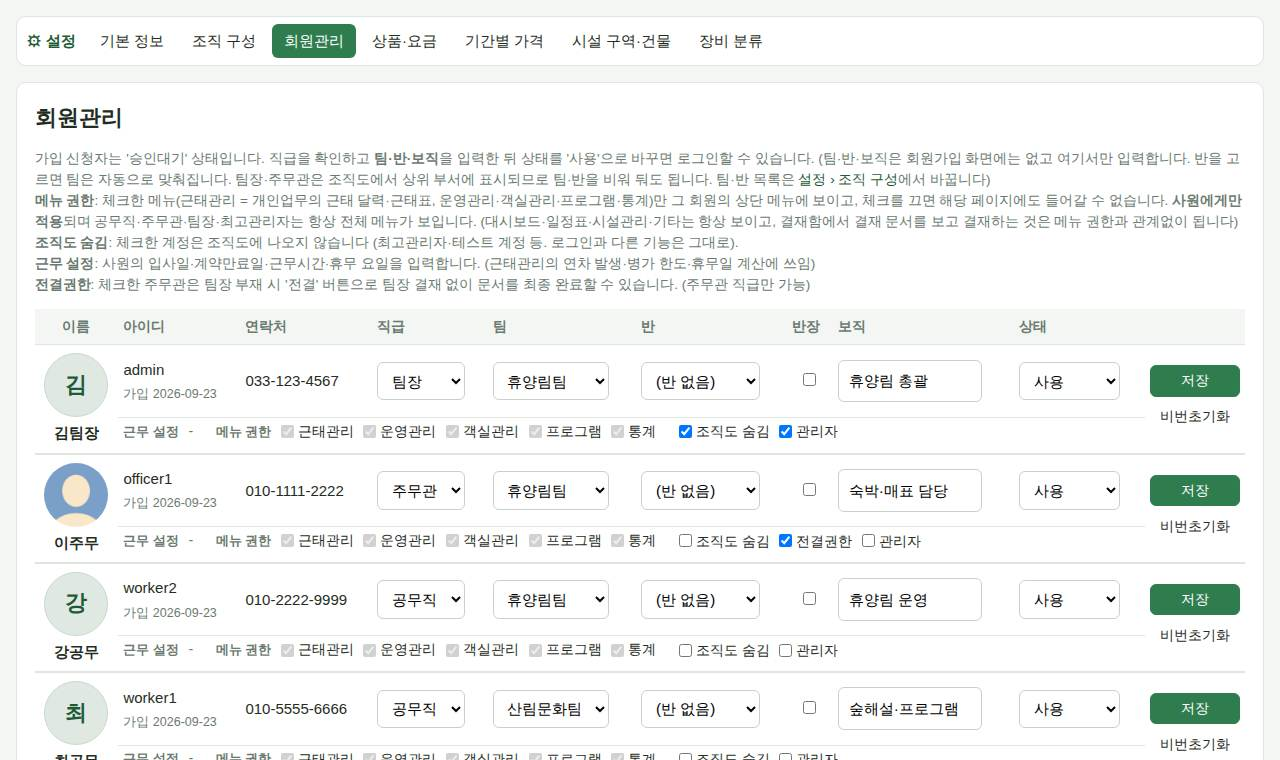
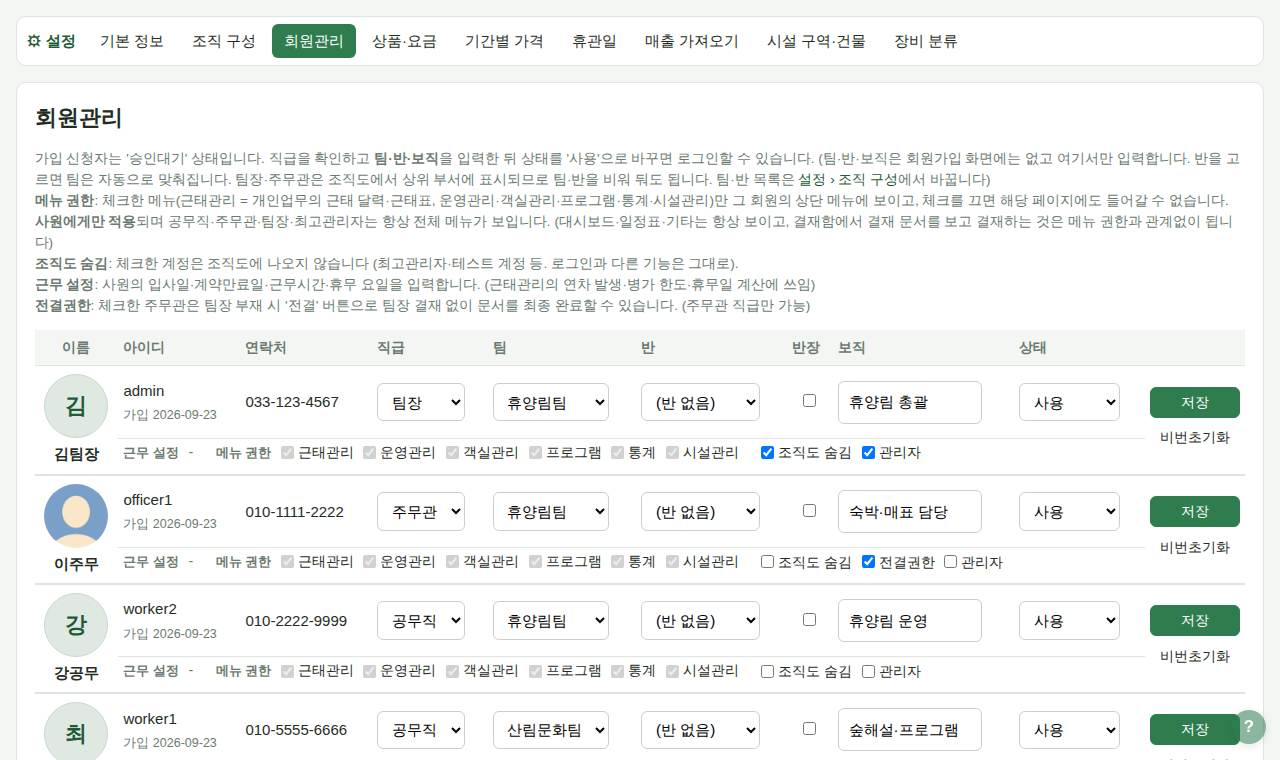
회원관리: 메뉴 권한에 시설관리 추가 (DB v50)
- 시설관리(fac) 끄면 시설점검·시설물·장비·물품구매·대시보드 시설물관리일지 숨김·차단
- 업데이트 때 이미 메뉴 권한을 고른 회원은 시설관리를 켜 둠 (지금처럼 보임)

Claude-Session: https://claude.ai/code/session_01Lr6yxKyasrSL9QLfMX5TX8

diff --git a/admin/users.php b/admin/users.php
@@ -60,9 +60,9 @@ if ($me['is_admin']) settings_nav('users');
     (팀·반·보직은 회원가입 화면에는 없고 여기서만 입력합니다. 반을 고르면 팀은 자동으로 맞춰집니다.
     팀장·주무관은 조직도에서 상위 부서에 표시되므로 팀·반을 비워 둬도 됩니다.
     팀·반 목록은 <?= $me['is_admin'] ? '<a href="' . e(url('settings.php?tab=org')) . '">설정 › 조직 구성</a>' : '최고관리자가 설정 › 조직 구성' ?>에서 바꿉니다)<br>
-    <b>메뉴 권한</b>: 체크한 메뉴(근태관리 = 개인업무의 근태 달력·근태표, 운영관리·객실관리·프로그램·통계)만 그 회원의 상단 메뉴에 보이고, 체크를 끄면 해당 페이지에도 들어갈 수 없습니다.
+    <b>메뉴 권한</b>: 체크한 메뉴(근태관리 = 개인업무의 근태 달력·근태표, 운영관리·객실관리·프로그램·통계·시설관리)만 그 회원의 상단 메뉴에 보이고, 체크를 끄면 해당 페이지에도 들어갈 수 없습니다.
     <b>사원에게만 적용</b>되며 공무직·주무관·팀장·최고관리자는 항상 전체 메뉴가 보입니다.
-    (대시보드·일정표·시설관리·기타는 항상 보이고, 결재함에서 결재 문서를 보고 결재하는 것은 메뉴 권한과 관계없이 됩니다)<br>
+    (대시보드·일정표·기타는 항상 보이고, 결재함에서 결재 문서를 보고 결재하는 것은 메뉴 권한과 관계없이 됩니다)<br>
     <b>조직도 숨김</b>: 체크한 계정은 조직도에 나오지 않습니다 (최고관리자·테스트 계정 등. 로그인과 다른 기능은 그대로).<br>
     <b>근무 설정</b>: 사원의 입사일·계약만료일·근무시간·휴무 요일을 입력합니다. (근태관리의 연차 발생·병가 한도·휴무일 계산에 쓰임)<br>
     <b>전결권한</b>: 체크한 주무관은 팀장 부재 시 '전결' 버튼으로 팀장 결재 없이 문서를 최종 완료할 수 있습니다. (주무관 직급만 가능)</p>

diff --git a/app/migrate.php b/app/migrate.php
@@ -6,7 +6,7 @@ defined('APP_ROOT') || exit;
  * 새 버전 파일을 FTP로 덮어쓰기만 하면, 첫 접속 때 부족한 테이블/컬럼을 만든다.
  * (기존 자료는 그대로 유지)
  */
-const DB_VERSION = 49;
+const DB_VERSION = 50;
 
 function db_version(): int
 {
@@ -417,6 +417,11 @@ function db_migrate(): void
     foreach (['last_sent_at' => "DATETIME NULL COMMENT '마지막 전송 시도'", 'last_code' => "SMALLINT NULL COMMENT '마지막 전송 결과 (알림 서버 HTTP 코드, 0 = 연결 실패)'",
               'last_error' => "VARCHAR(255) NULL COMMENT '마지막 전송 오류 내용'", 'test_at' => "DATETIME NULL COMMENT '알림 테스트 요청'"] as $col => $def) {
         if (!column_exists('push_subs', $col)) $pdo->exec("ALTER TABLE push_subs ADD $col $def");
+    }
+
+    // 50) v49 → v50: 메뉴 권한에 '시설관리'(fac) 추가 — 이미 메뉴 권한을 고른 회원은 지금처럼 시설관리를 계속 보이게 fac 를 붙인다
+    if (db_version() < 50) {
+        $pdo->exec("UPDATE users SET menu_access = IF(menu_access = '', 'fac', CONCAT(menu_access, ',fac')) WHERE menu_access IS NOT NULL AND FIND_IN_SET('fac', menu_access) = 0");
     }
 
     $pdo->prepare("INSERT INTO settings (name, value) VALUES ('db_version', ?) ON DUPLICATE KEY UPDATE value = VALUES(value)")

diff --git a/app/changelog.php b/app/changelog.php
@@ -7,6 +7,10 @@ defined('APP_ROOT') || exit;
  *   ['date' => 'YYYY-MM-DD', 'title' => '한 줄 요약', 'items' => ['자세한 내용', ...], 'menu' => '관련 메뉴(선택)']
  */
 const CHANGELOG = [
+    ['date' => '2026-10-05', 'title' => '회원관리: 메뉴 권한에 시설관리 추가', 'menu' => '회원관리', 'items' => [
+        '회원관리의 메뉴 권한 체크박스에 시설관리를 넣었습니다. 끄면 그 사원에게 시설점검·시설물·장비·물품구매 메뉴가 보이지 않고 들어갈 수도 없습니다 (대시보드의 시설물관리일지도 숨김).',
+        '이미 메뉴 권한을 골라 둔 사원은 업데이트 후에도 지금처럼 시설관리가 켜져 있습니다. 공무직 이상은 항상 전체 메뉴가 보입니다.',
+    ]],
     ['date' => '2026-10-05', 'title' => '청소관리: 퇴실대기 여러 객실 한 번에 퇴실처리', 'menu' => '객실관리', 'items' => [
         "퇴실대기 객실에 체크박스와 '전체선택'을 넣었습니다. 여러 객실을 골라 아래 '선택 퇴실처리'를 누르면 한꺼번에 청소가능이 됩니다.",
         "한꺼번에 처리한 퇴실·청소완료 알림은 '퇴실 3실 · 101호, 102호…'처럼 하나로 묶어서 보냅니다.",

diff --git a/app/auth.php b/app/auth.php
@@ -44,7 +44,7 @@ function require_manager(): array
 
 /** 회원별로 켜고 끌 수 있는 메인메뉴 (회원관리에서 설정) */
 const MENU_OPTIONAL = ['att' => '근태관리', // 개인업무 › 근태 달력·월간 근태
-     'ops' => '운영관리', 'room' => '객실관리', 'prog' => '프로그램', 'stat' => '통계'];
+     'ops' => '운영관리', 'room' => '객실관리', 'prog' => '프로그램', 'stat' => '통계', 'fac' => '시설관리'];
 
 /** 이 메인메뉴를 볼 수 있는가. 최고관리자·공무직 이상과 설정 전(NULL) 회원은 전부 (메뉴 권한은 사원에게만 적용) */
 function can_menu(?array $u, string $group): bool
@@ -84,6 +84,7 @@ function journal_menu(string $type): ?string
         in_array($type, ['daily', 'sales', 'voucher', 'vcheck'], true) => 'ops',
         in_array($type, ['rooms', 'arwork'], true) => 'room',
         isset(PROGRAM_TYPES[$type]) => 'prog',
+        in_array($type, ['facility', 'purchase'], true) => 'fac',
         $type === 'attendance' => 'att',
         default => null,
     };

diff --git a/app/help.php b/app/help.php
@@ -395,7 +395,7 @@ HTML],
 <p>최고관리자(설정 › 회원관리)와 팀장(기타 › 회원관리)이 사용합니다. 회원마다 두 줄입니다.</p>
 <ul>
   <li>가입 승인(상태 '사용'), 직급·팀·반·반장·보직, <b>근무 설정</b>(사원: 입사일·계약만료일·근무시간·휴무 요일).</li>
-  <li><b>메뉴 권한</b>(사원만): 근태관리·운영관리·객실관리·프로그램·통계를 켜고 끕니다. 조직도 숨김·전결권한(주무관)·관리자.</li>
+  <li><b>메뉴 권한</b>(사원만): 근태관리·운영관리·객실관리·프로그램·통계·시설관리를 켜고 끕니다. 조직도 숨김·전결권한(주무관)·관리자.</li>
   <li><b>비번초기화</b>: 임시 비밀번호 발급 (그 사람의 자동 로그인도 해제). 사진을 누르면 사진을 올립니다.</li>
 </ul>
 HTML],

diff --git a/index.php b/index.php
@@ -182,7 +182,8 @@ layout_header('대시보드', 'home');
   <section class="card">
     <h2>오늘(<?= e(date('n/j')) ?>) 일지 현황</h2>
     <ul class="list">
-      <?php foreach (DAILY_TYPES as $type): $label = JOURNAL_TYPES[$type]; ?>
+      <?php foreach (DAILY_TYPES as $type): $label = JOURNAL_TYPES[$type];
+          if (($m = journal_menu($type)) && !can_menu($user, $m)) continue; // 시설물관리일지는 시설관리 메뉴 권한 ?>
         <li>
           <a href="<?= e(url("journal.php?type=$type&date=$today")) ?>"><?= e($label) ?></a>
           <?php $n = (int) ($todayCounts[$type] ?? 0) ?>

diff --git a/facilities.php b/facilities.php
@@ -3,6 +3,7 @@
 require __DIR__ . '/app/bootstrap.php';
 
 $user = require_login();
+require_menu($user, 'fac'); // 시설관리 메뉴 권한 (회원관리)
 $teamId = (int) ($_GET['team'] ?? 0);
 if ($teamId && !isset(facility_teams()[$teamId])) $teamId = 0; // 시설점검·시설물을 쓰지 않는 팀은 빠짐
 $showInactive = !empty($_GET['all']);

diff --git a/facility.php b/facility.php
@@ -3,6 +3,7 @@
 require __DIR__ . '/app/bootstrap.php';
 
 $user = require_login();
+require_menu($user, 'fac'); // 시설관리 메뉴 권한 (회원관리)
 $f = facility_find((int) ($_GET['id'] ?? 0)) ?? abort(404, '시설을 찾을 수 없습니다.');
 $showAll = !empty($_GET['all']);
 $from = valid_date($_GET['from'] ?? '') ? $_GET['from'] : '';

diff --git a/equipment_view.php b/equipment_view.php
@@ -3,6 +3,7 @@
 require __DIR__ . '/app/bootstrap.php';
 
 $user = require_login();
+require_menu($user, 'fac'); // 시설관리 메뉴 권한 (회원관리)
 $id = (int) ($_GET['id'] ?? 0);
 $e = equipment_find($id) ?? abort(404, '장비를 찾을 수 없습니다.');
 $canManage = can_manage_assets($user);

diff --git a/equipment.php b/equipment.php
@@ -3,6 +3,7 @@
 require __DIR__ . '/app/bootstrap.php';
 
 $user = require_login();
+require_menu($user, 'fac'); // 시설관리 메뉴 권한 (회원관리)
 $teamId = (int) ($_GET['team'] ?? 0);
 if ($teamId && !isset(teams_all()[$teamId])) $teamId = 0;
 $status = $_GET['status'] ?? 'inuse';

diff --git a/purchase.php b/purchase.php
@@ -8,6 +8,7 @@
 require __DIR__ . '/app/bootstrap.php';
 
 $user = require_login();
+require_menu($user, 'fac'); // 시설관리 메뉴 권한 (회원관리)
 if (!can_purchase($user)) abort(403, '물품구매는 공무직 이상만 사용할 수 있습니다.');
 $pdo = db();
 

diff --git a/equipment_edit.php b/equipment_edit.php
@@ -3,6 +3,7 @@
 require __DIR__ . '/app/bootstrap.php';
 
 $user = require_login();
+require_menu($user, 'fac'); // 시설관리 메뉴 권한 (회원관리)
 if (!can_manage_assets($user)) abort(403, '권한이 없습니다. (주무관 이상)');
 $pdo = db();
 
